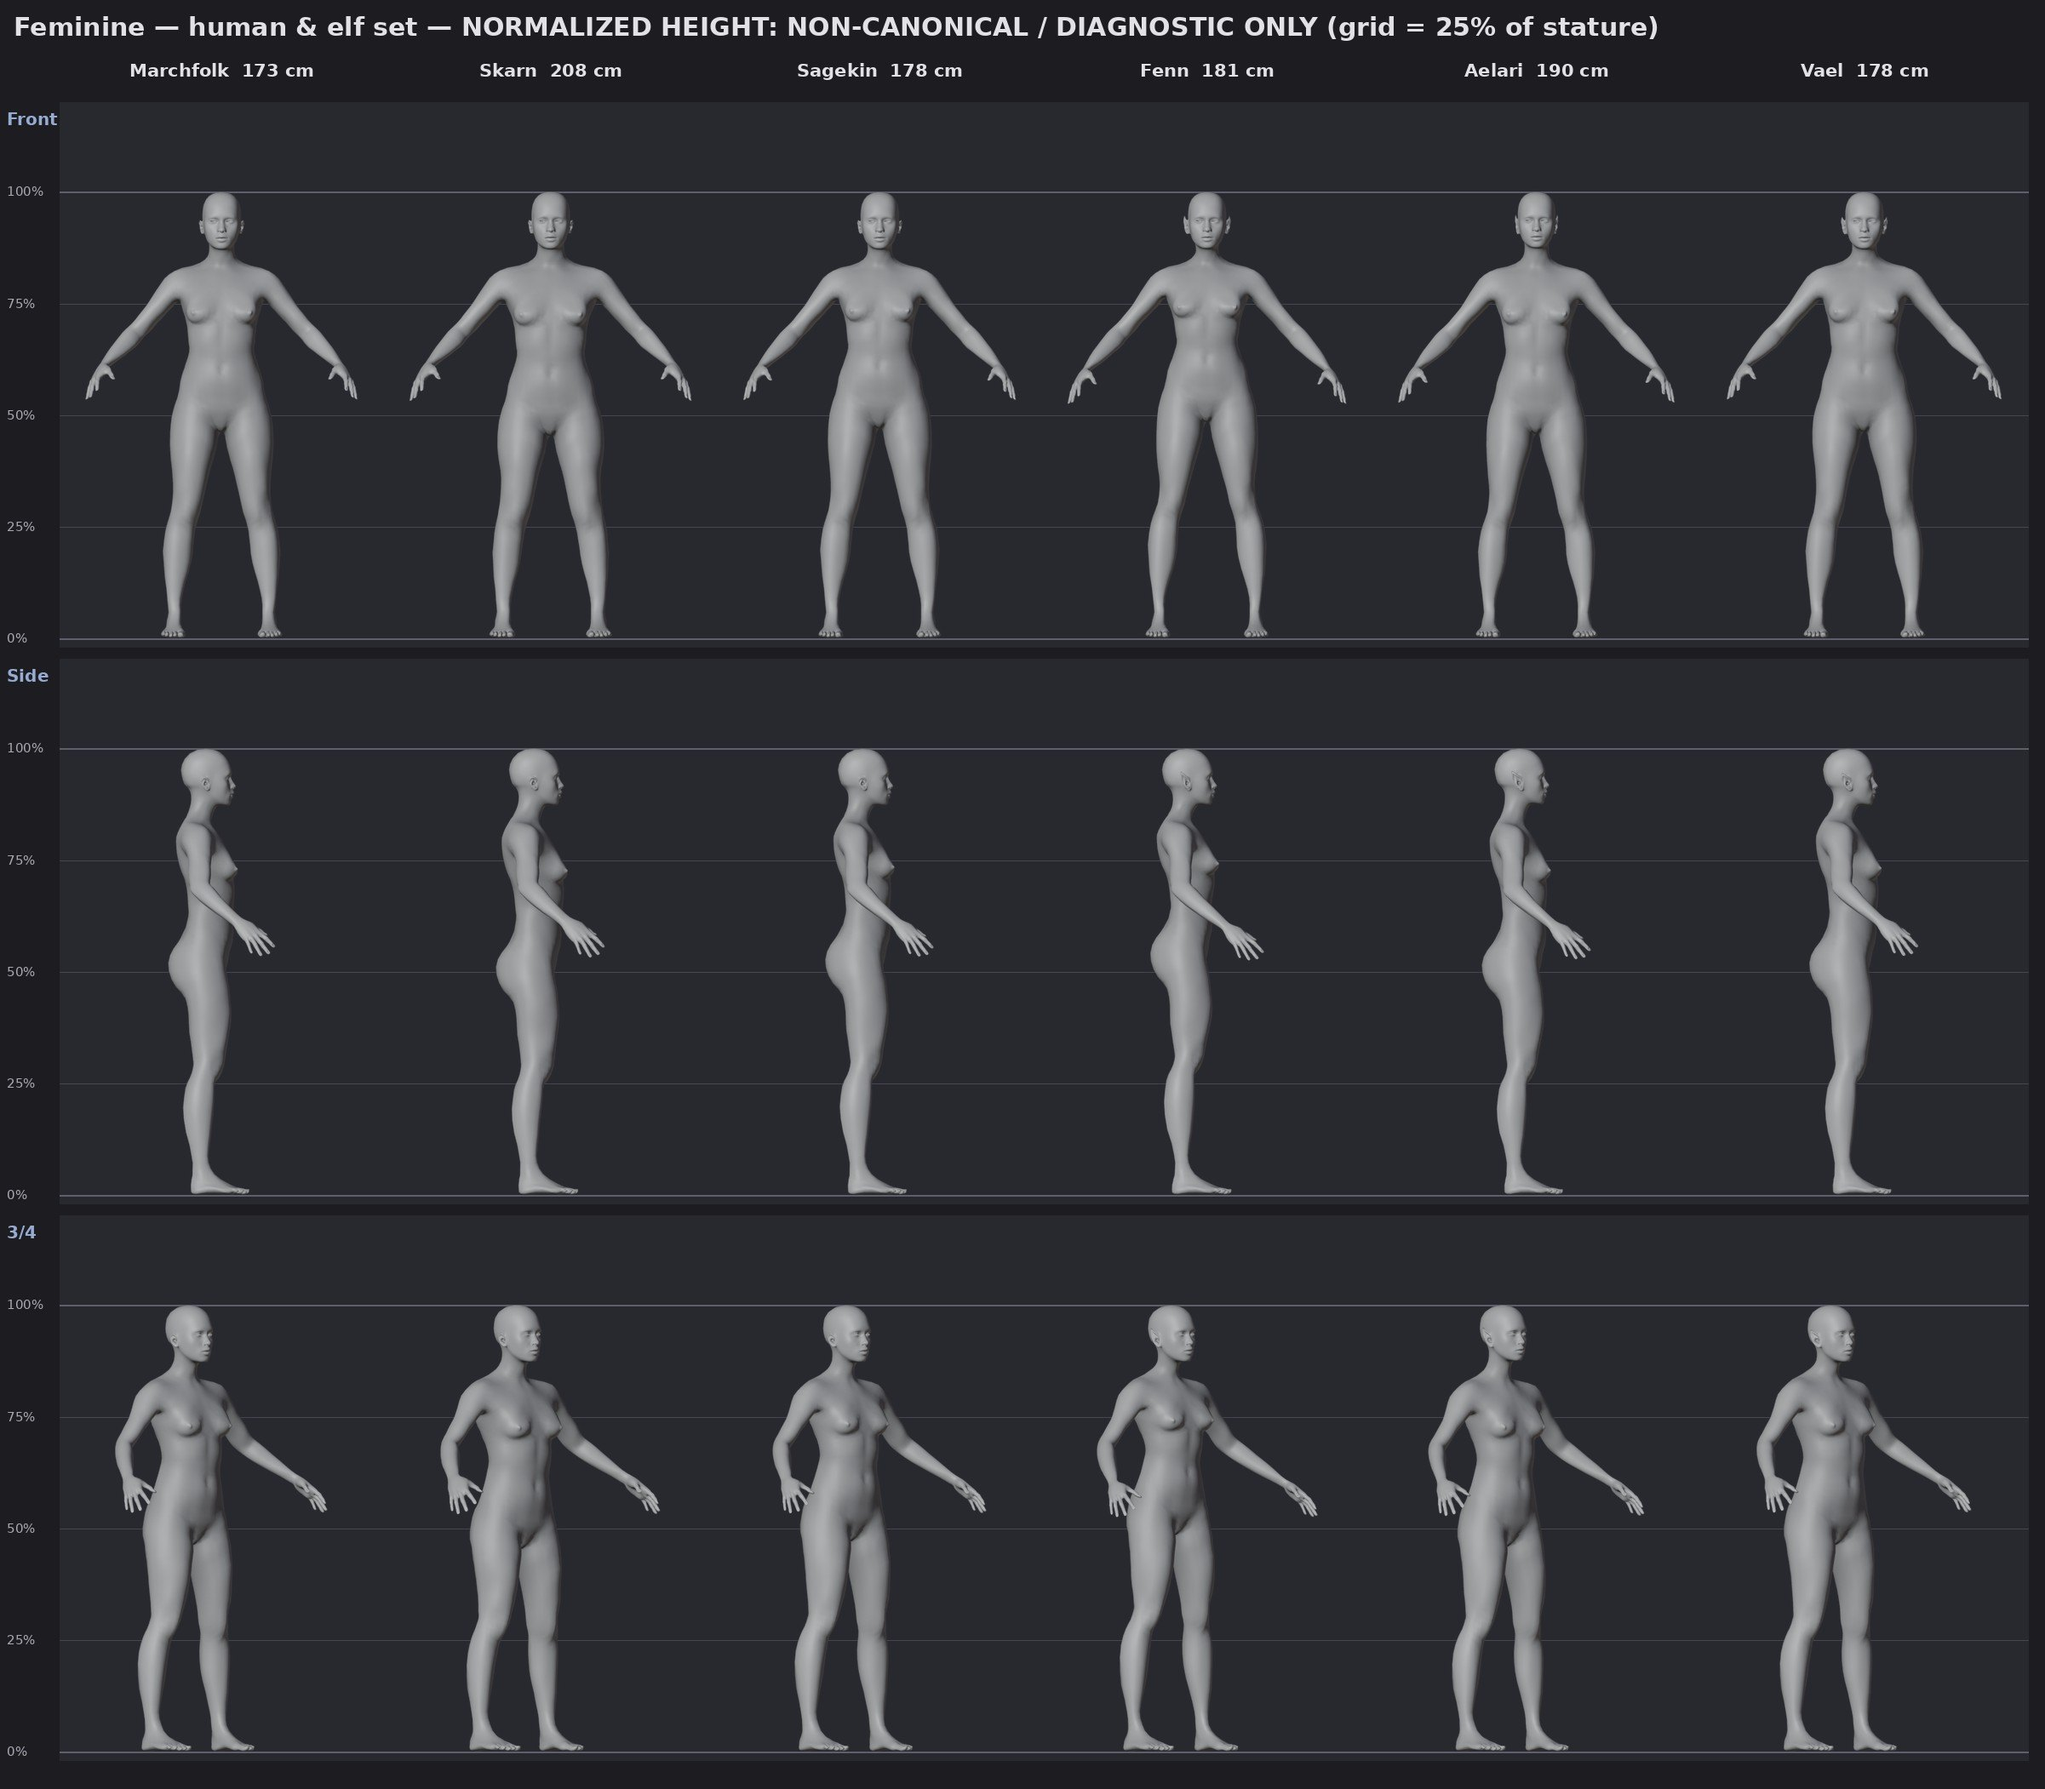
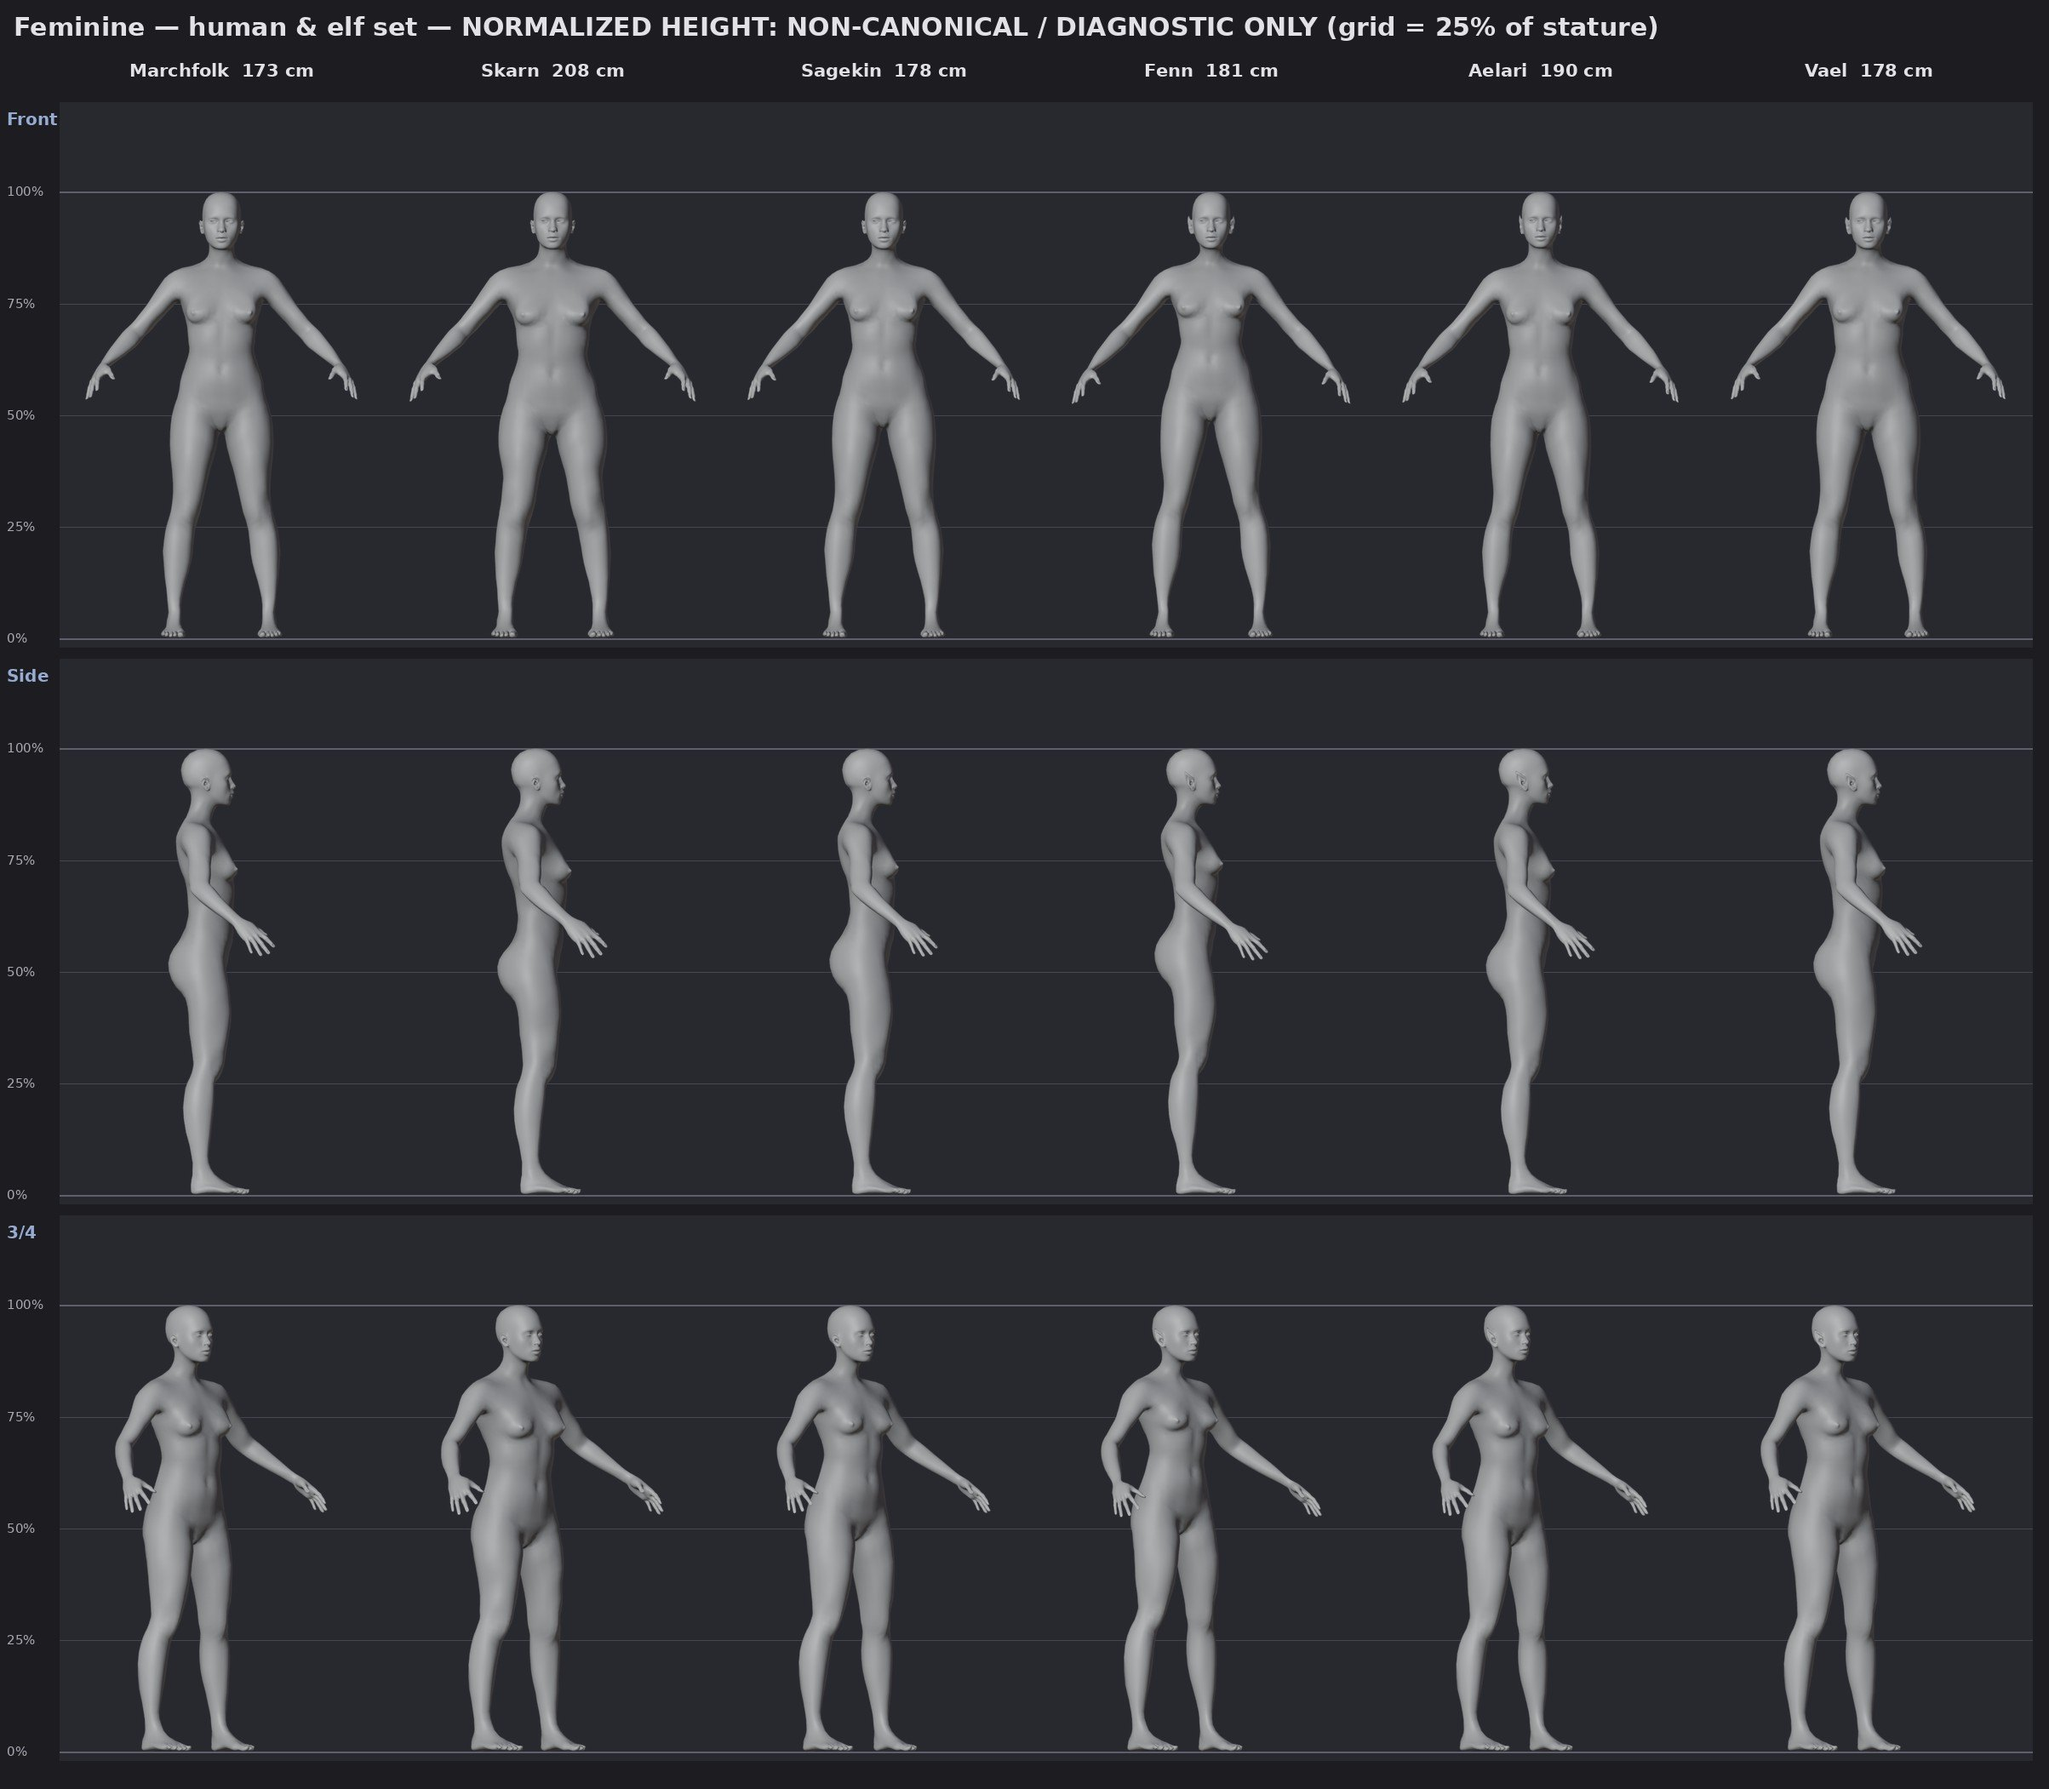
Adopt Skarn S2 as neutral Skarn reference; keep v1 for history; regenerate Iteration 3 sheets
Claude-Session: https://claude.ai/code/session_01UahaGj2uo1tYE9P7LqgmRd

diff --git a/reviews/claude-skarn-s2-adopted.md b/reviews/claude-skarn-s2-adopted.md
@@ -1,0 +1,27 @@
+# Skarn S2 Adopted — Iteration 3 Reference Update
+
+**Author:** Claude
+**Responds to:** `reviews/claude-adopt-skarn-s2-action.md` and `reviews/iteration-3-normalized-masculine-decision.md`
+**Status:** DONE. The feminine normalized review is still open before Iteration 3 closes.
+
+## What changed
+
+- **Skarn_S2 is now the neutral Skarn reference** in every Iteration 3 sheet, for both sexes, and in the build script and model files.
+  - It changes only the skeletal frame: girdles, ribcage, joints, and the hand/foot skeleton.
+  - Muscle and fat stay at the shared neutral setting, so no muscularity was added.
+  - S2 marks the population center. It is not a minimum and does not narrow valid Skarn variation.
+- **The original Skarn is kept as `Skarn_v1`** for historical comparison. It is in `skarn_*_normalized.jpg` next to Marchfolk and the current Skarn, and in `RaceBodies/out/Skarn_v1_*.blend/.fbx` on Tyler's PC.
+- **Regenerated sheets** in `reviews/images/race-references-iteration-3/`:
+  - `setA_*` (true scale and normalized)
+  - `stress_*`
+  - `skarn_*`
+
+  The `setB_*` sheets have no Skarn column and are unchanged.
+
+## Carried work (unchanged)
+
+1. **Gorrund:** direct sculpt of the shoulder girdle → thorax → lower axial trunk → pelvis → proximal lower limbs load path. This is a tooling limit, not a spec change.
+2. **Saurin:** dedicated sculpt of the head, extremities, scale architecture and tail-base integration. The body and the complete tail stay as they are.
+3. **Feminine review:** `stress_Fem_normalized.jpg` is ready for the Author/Tyler review that closes Iteration 3.
+
+No canonical spec was edited. No Pass 2 or UE5 work was done.
